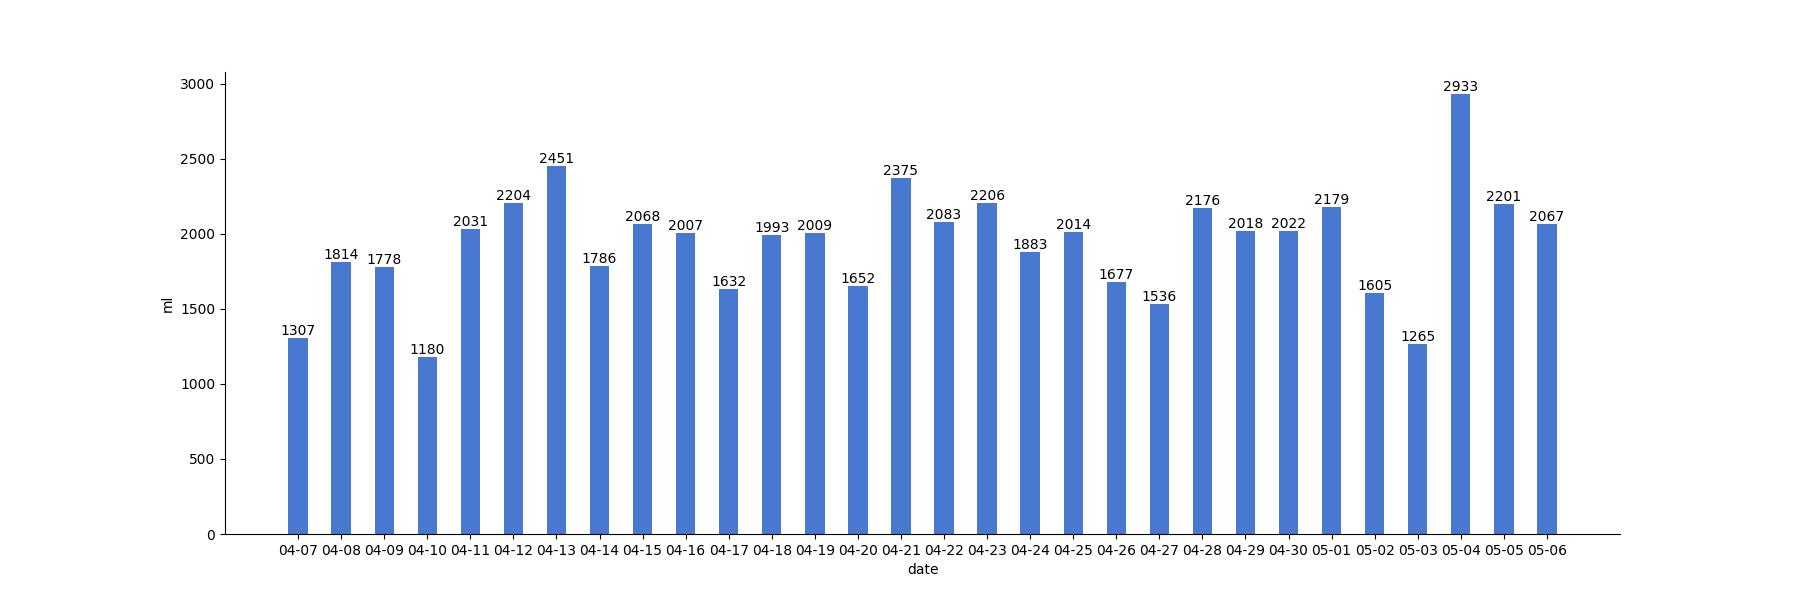
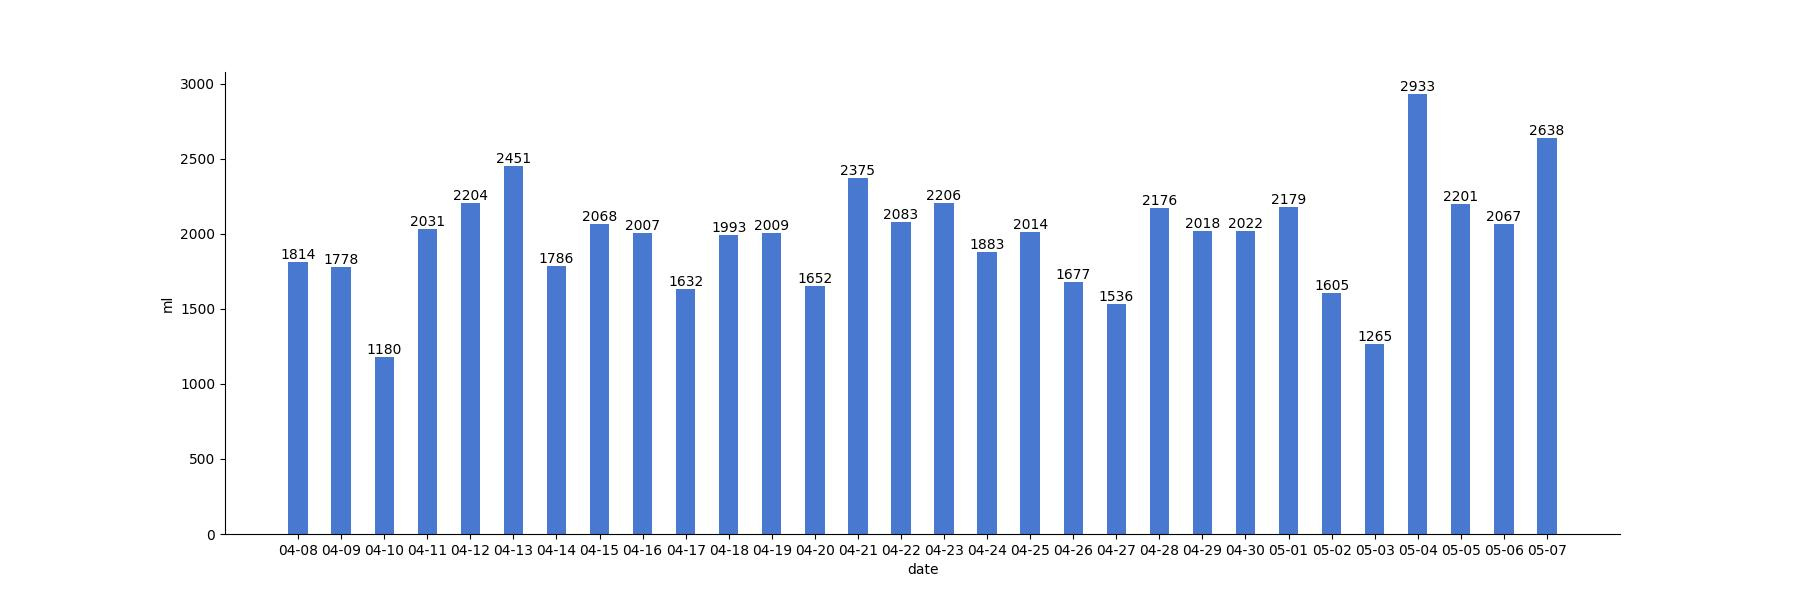
generated readme

diff --git a/README.md b/README.md
@@ -1,17 +1,3 @@
-# 今日饮水数据
-
-<div align=center>
-<img src="today.jpg" style="zoom: 100%;" />
-
-| 今日总饮水量 | 每小时平均饮水量 |
-| :----: | :----: |
-| 2638 | 138 |
-</div>
-
-| 日期 | 00:07:19 | 01:26:12 | 07:59:11 | 08:31:30 | 08:53:56 | 09:35:57 | 09:37:07 | 10:16:27 | 11:15:17 | 11:49:52 | 12:14:12 | 13:00:25 | 13:39:14 | 14:28:45 | 14:58:31 | 15:32:52 | 16:05:51 | 16:36:54 | 17:21:19 | 17:51:29 | 18:37:16 | 19:11:47 | 19:53:02 | 20:27:25 | 20:36:51 | 21:08:17 | 21:33:24 | 22:10:36 | 22:32:55 | 23:31:23 | 23:50:17 |
-| :----: | :----: | :----: | :----: | :----: | :----: | :----: | :----: | :----: | :----: | :----: | :----: | :----: | :----: | :----: | :----: | :----: | :----: | :----: | :----: | :----: | :----: | :----: | :----: | :----: | :----: | :----: | :----: | :----: | :----: | :----: | :----: |
-| 2022-05-07 | 23 | 63 | 128 | 82 | 68 | 69 | 102 | 74 | 66 | 40 | 200 | 69 | 98 | 53 | 21 | 32 | 71 | 139 | 66 | 78 | 350 | 155 | 45 | 72 | 77 | 118 | 85 | 72 | 22 | 38 | 62 |
-
 # 近30日饮水数据
 
 <div align=center>
@@ -19,8 +5,12 @@
 
 | 总饮水量 | 日均饮水量 |
 | :----: | :----: |
-| 58152 | 1938 |
+| 59483 | 1982 |
 </div>
+
+| 日期 | all | 00:07:19 | 01:26:12 | 07:59:11 | 08:31:30 | 08:53:56 | 09:35:57 | 09:37:07 | 10:16:27 | 11:15:17 | 11:49:52 | 12:14:12 | 13:00:25 | 13:39:14 | 14:28:45 | 14:58:31 | 15:32:52 | 16:05:51 | 16:36:54 | 17:21:19 | 17:51:29 | 18:37:16 | 19:11:47 | 19:53:02 | 20:27:25 | 20:36:51 | 21:08:17 | 21:33:24 | 22:10:36 | 22:32:55 | 23:31:23 | 23:50:17 |
+| :----: | :----: | :----: | :----: | :----: | :----: | :----: | :----: | :----: | :----: | :----: | :----: | :----: | :----: | :----: | :----: | :----: | :----: | :----: | :----: | :----: | :----: | :----: | :----: | :----: | :----: | :----: | :----: | :----: | :----: | :----: | :----: | :----: |
+| 2022-05-07 | 2638 | 23 | 63 | 128 | 82 | 68 | 69 | 102 | 74 | 66 | 40 | 200 | 69 | 98 | 53 | 21 | 32 | 71 | 139 | 66 | 78 | 350 | 155 | 45 | 72 | 77 | 118 | 85 | 72 | 22 | 38 | 62 |
 
 | 日期 | all | 00:03:55 | 07:35:06 | 07:59:47 | 08:47:17 | 09:12:43 | 09:50:32 | 10:15:13 | 10:46:32 | 11:47:57 | 12:18:49 | 12:48:26 | 13:06:29 | 13:40:16 | 14:37:35 | 15:15:01 | 16:24:30 | 16:56:52 | 17:57:33 | 18:00:22 | 19:41:22 | 20:11:45 | 21:11:13 | 21:50:00 | 22:20:40 | 22:42:15 | 23:53:15 |
 | :----: | :----: | :----: | :----: | :----: | :----: | :----: | :----: | :----: | :----: | :----: | :----: | :----: | :----: | :----: | :----: | :----: | :----: | :----: | :----: | :----: | :----: | :----: | :----: | :----: | :----: | :----: | :----: |
@@ -141,8 +131,4 @@
 | 日期 | all | 00:26:00 | 06:10:42 | 07:29:27 | 07:49:28 | 08:08:15 | 08:46:56 | 09:49:16 | 10:06:36 | 10:56:42 | 11:21:15 | 11:51:25 | 12:19:48 | 12:49:37 | 14:48:55 | 14:51:03 | 15:31:28 | 16:57:51 | 17:52:38 |
 | :----: | :----: | :----: | :----: | :----: | :----: | :----: | :----: | :----: | :----: | :----: | :----: | :----: | :----: | :----: | :----: | :----: | :----: | :----: | :----: |
 | 2022-04-07 | 1307 | 53 | 75 | 76 | 30 | 30 | 19 | 30 | 91 | 79 | 30 | 87 | 200 | 87 | 82 | 70 | 95 | 86 | 87 |
-
-| 日期 | all | 00:08:05 | 00:34:05 | 00:42:08 | 01:28:39 | 02:06:33 | 02:32:46 | 02:43:21 | 03:15:36 | 07:56:54 | 08:01:28 | 08:20:38 | 08:48:48 | 09:21:46 | 09:43:31 | 10:04:19 | 10:38:06 | 11:10:19 | 12:38:32 | 13:01:10 | 13:31:40 | 14:07:20 | 14:37:02 | 15:06:02 | 15:32:53 | 16:02:57 | 16:33:04 | 17:15:02 | 17:49:52 | 18:15:04 | 18:35:09 | 18:57:30 | 19:26:13 | 19:53:44 | 20:24:02 | 21:08:31 | 21:35:54 | 22:15:03 | 22:31:29 | 22:36:34 | 22:49:56 | 23:34:43 | 23:54:18 | 23:59:55 |
-| :----: | :----: | :----: | :----: | :----: | :----: | :----: | :----: | :----: | :----: | :----: | :----: | :----: | :----: | :----: | :----: | :----: | :----: | :----: | :----: | :----: | :----: | :----: | :----: | :----: | :----: | :----: | :----: | :----: | :----: | :----: | :----: | :----: | :----: | :----: | :----: | :----: | :----: | :----: | :----: | :----: | :----: | :----: | :----: | :----: |
-| 2022-04-06 | 2311 | 62 | 39 | 31 | 38 | 56 | 22 | 30 | 57 | 90 | 55 | 62 | 52 | 60 | 76 | 13 | 76 | 49 | 200 | 35 | 82 | 40 | 32 | 58 | 32 | 22 | 72 | 38 | 62 | 30 | 64 | 96 | 89 | 51 | 35 | 33 | 60 | 89 | 81 | 17 | 30 | 25 | 40 | 30 |
 
